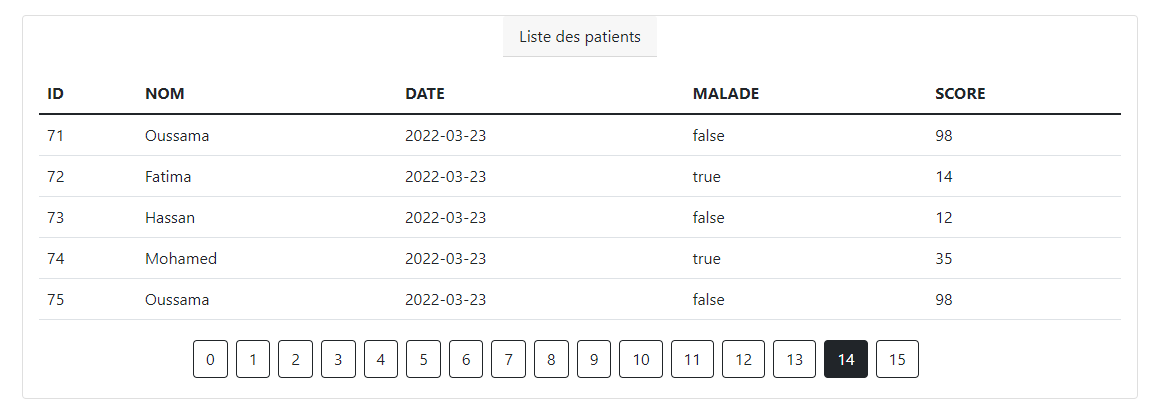
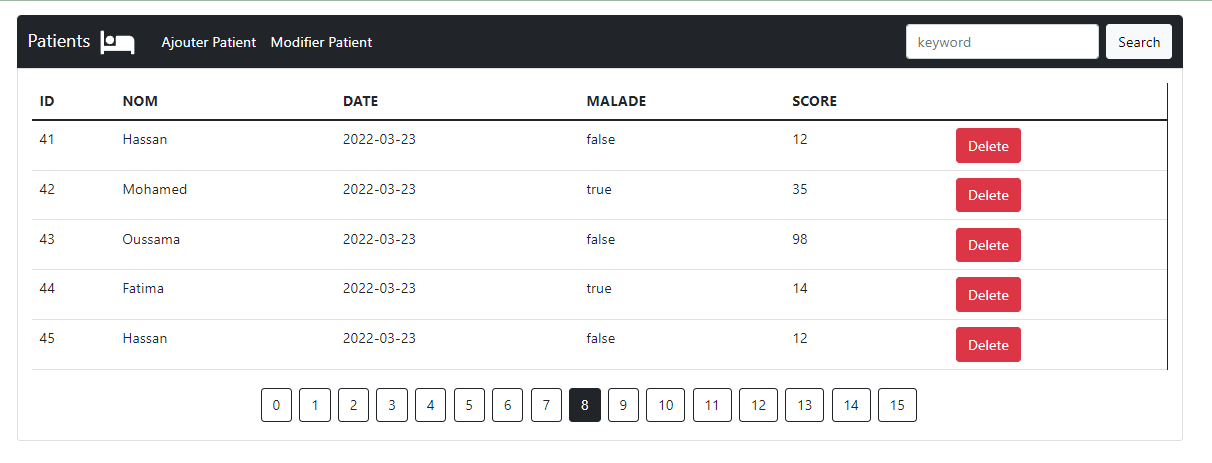
Styling

diff --git a/TP3 - MVC Patients/src/main/resources/templates/patients.html b/TP3 - MVC Patients/src/main/resources/templates/patients.html
@@ -4,19 +4,38 @@
 <head>
     <meta charset="UTF-8">
     <link rel="stylesheet" href="/webjars/bootstrap/5.1.3/css/bootstrap.min.css">
-    <link rel="stylesheet" href="path/to/font-awesome/css/font-awesome.min.css">
+    <link rel="stylesheet" href="/webjars/font-awesome/6.1.0/svgs/solid/bed.svg">
     <title>Title</title>
 </head>
 <body>
+
     <div class="container mt-3">
-        <div class="card">
-            <div class="card-header align-self-center mb-5" > Liste des patients </div>
+        <nav class="navbar navbar-expand-lg navbar-dark bg-dark" style="border-top-left-radius: 5px;border-top-right-radius: 5px;">
+            <div class="container-fluid">
+                <button class="navbar-toggler" type="button" data-bs-toggle="collapse" data-bs-target="#navbarTogglerDemo01" aria-controls="navbarTogglerDemo01" aria-expanded="false" aria-label="Toggle navigation">
+                    <span class="navbar-toggler-icon"></span>
+                </button>
+                <div class="collapse navbar-collapse" id="navbarTogglerDemo01">
+                    <a class="navbar-brand" href="/">Patients <svg xmlns="http://www.w3.org/2000/svg" viewBox="0 0 640 512" width="50px" height="30px">
+                        <path fill="white" d="M176 288C220.1 288 256 252.1 256 208S220.1 128 176 128S96 163.9 96 208S131.9 288 176 288zM544 128H304C295.2 128 288 135.2 288 144V320H64V48C64 39.16 56.84 32 48 32h-32C7.163 32 0 39.16 0 48v416C0 472.8 7.163 480 16 480h32C56.84 480 64 472.8 64 464V416h512v48c0 8.837 7.163 16 16 16h32c8.837 0 16-7.163 16-16V224C640 170.1 597 128 544 128z"/></svg>
+                    </a>
+                    <ul class="navbar-nav me-auto mb-2 mb-lg-0">
+                        <li class="nav-item">
+                            <a class="nav-link active" aria-current="page" href="#">Ajouter Patient</a>
+                        </li>
+                        <li class="nav-item">
+                            <a class="nav-link active" aria-current="page" href="#">Modifier Patient</a>
+                        </li>
+                    </ul>
+                    <form class="d-flex" method="get" th:action="@{index}">
+                        <input type="search" aria-label="Search" placeholder="keyword" class="form-control me-2" name="keyword" th:value="${keyword}">
+                        <button class="btn btn-light" type="submit">Search</button>
+                    </form>
+                </div>
+            </div>
+        </nav>
+        <div class="card" style="border-top-left-radius: 0px; !important;border-top-right-radius: 0px; !important;">
             <div class="card-body">
-                <form method="get" th:action="@{index}">
-                    <label>Key word</label>
-                    <input type="text" name="keyword" th:value="${keyword}">
-                    <button type="submit" class="btn btn-dark">Chercher</button>
-                </form>
                 <table class="table">
                     <thead>
                         <tr>
@@ -40,7 +59,7 @@
                         </tr>
                     </tbody>
                 </table>
-                <ul class="nav nav-pills" style="margin-left: 150px">
+                <ul class="nav nav-pills" style="margin-left: 250px">
                     <li th:each="page,status:${nbrPages}">
                         <a th:text="${status.index}"
                            th:class="${status.index == pagecourant ? 'btn btn-dark m-lg-1 ms-1' : 'btn btn-outline-dark m-lg-1 ms-1'}"

diff --git a/TP3 - MVC Patients/src/main/java/com/example/tp3mvcpatients/web/PatientController.java b/TP3 - MVC Patients/src/main/java/com/example/tp3mvcpatients/web/PatientController.java
@@ -38,4 +38,10 @@ public class PatientController {
         patientRepository.deleteById(id);
         return "redirect:/index";
     }
+
+    @GetMapping(path = "/new")
+    public String nouveau(Patient p) {
+        patientRepository.save(p);
+        return "redirect:/index";
+    }
 }
